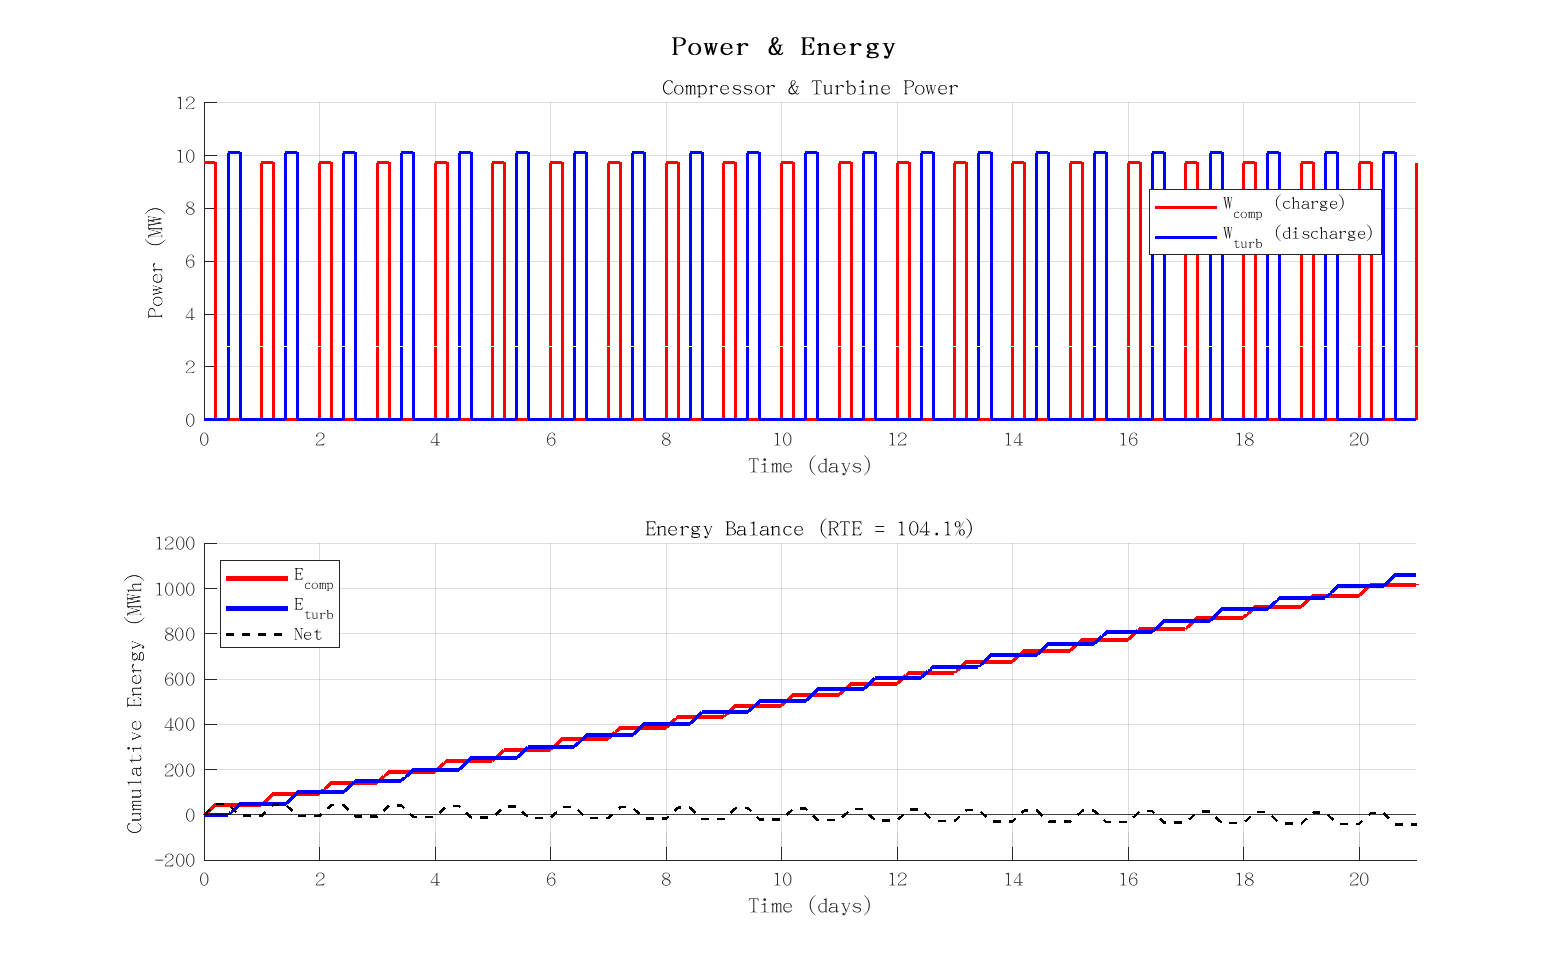
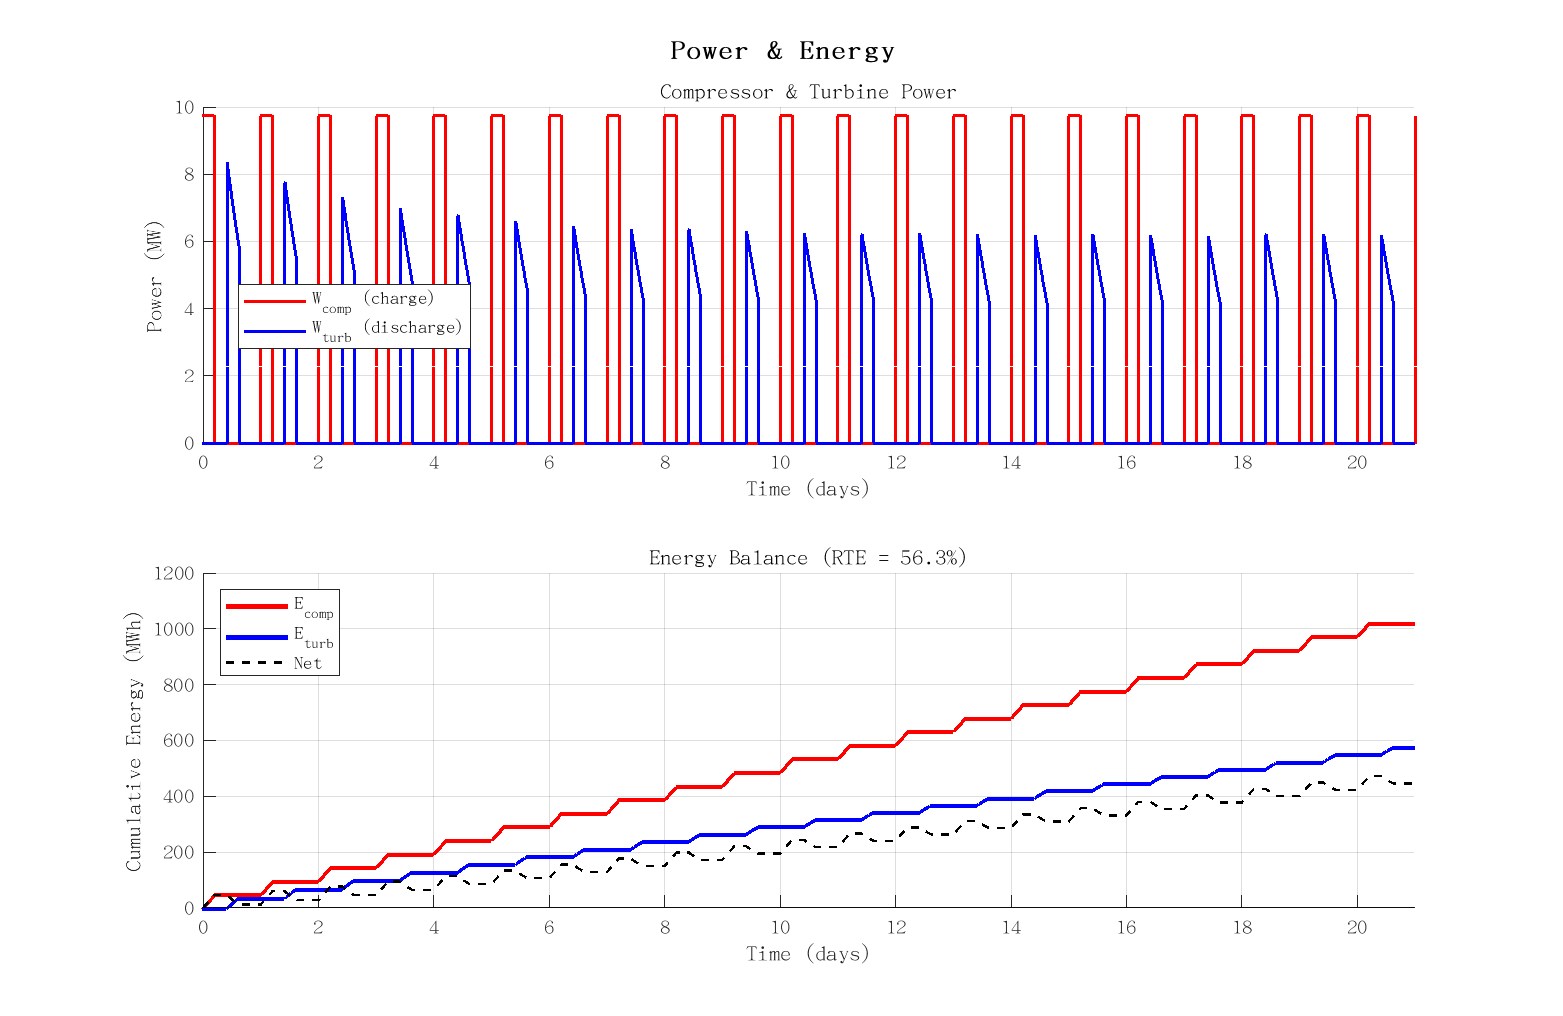
feat: two-tank HTV with asymmetric alpha for heat balance
T_heat=T_hot=573K constant. Heat balance achieved via α_ch=3.48,
α_dis=2.74 (ratio=q_HR/q_IC≈1.27). V_hot 45-835 m3 (Q 7-135 MWh),
HPT 50-100% SOC. Constraints manage long-term mass accumulation.

diff --git a/CCES_CHP_Simulink/src/ode/ode_dynamics.m b/CCES_CHP_Simulink/src/ode/ode_dynamics.m
@@ -1,24 +1,25 @@
 function [dx, W_comp, Q_IC, W_turb, Q_HR, T_heat, mode] = ode_dynamics(t, x)
-% HPT + 导热油HTV (T_heat随Q变化, 自动热平衡)
-% x(1)=m_HPT [kg], x(2)=T_HTV [K], x(3)=T_tank [K]
-persistent lib Fluid T_sat_vec P_sat_vec V_HPT mcp T_amb T_max alpha
+% HPT + 双罐导热油HTV (T_heat恒定, α不对称→热平衡)
+% x(1)=m_HPT [kg], x(2)=V_hot [m³], x(3)=T_tank [K]
+persistent lib Fluid T_sat_vec P_sat_vec V_HPT rho_cp T_hot T_cold V_total a_ch a_dis
 
 if isempty(lib)
     addpath(fullfile(fileparts(mfilename('fullpath')), '..', '..'));
     cfg = config_paths();  lib = cfg.REFPROP_LIB;  Fluid = 'CO2';
-    V_HPT=6228;  T_amb=298;  T_max=573;  alpha=2.744;
-    mcp = 150*3600*1000/(T_max-T_amb);  % MJ/K → 已自洽
+    V_HPT=6228;  T_hot=573;  T_cold=298;  rho_cp=850*2.5;  % kJ/m³K
+    V_total=150*3600*1000/(rho_cp*(T_hot-T_cold));  % ~924 m³
     T_sat_vec=(260:0.5:304)'; P_sat_vec=zeros(size(T_sat_vec));
     for i=1:length(T_sat_vec)
         P_sat_vec(i)=getFP(lib,'P','T',T_sat_vec(i),'Q',0,Fluid);
     end
-    fprintf('HTV: mcp=%.0f kJ/K, Tmax=%.0fK, alpha=%.3f\n', mcp, T_max, alpha);
-    fprintf('HPT: P_sat LUT %dpts\n', length(T_sat_vec));
+    % α不对称: 热平衡 qIC*αc*Wc = qHR*αd*Wt → αc/αd = (qHR*Wt)/(qIC*Wc) ≈ 1.27
+    a_dis=2.744;  a_ch=a_dis*1.27;  % kg/(s·MW)
+    fprintf('双罐HTV Th=%.0fK V=%.0fm3 αch=%.2f αdis=%.2f\n',T_hot,V_total,a_ch,a_dis);
 end
 
-m_HPT=x(1); T_HTV=max(T_amb,min(T_max,x(2))); T_tank=x(3);
+m_HPT=x(1); V_hot=max(0,min(V_total,x(2))); T_tank=x(3);
 
-% HPT压力
+% HPT两相压力
 Tc=max(260,min(304,T_tank));
 Ps=interp1(T_sat_vec,P_sat_vec,Tc,'linear');
 rl=getFP(lib,'D','T',Tc,'Q',0,Fluid); rv=getFP(lib,'D','T',Tc,'Q',1,Fluid);
@@ -28,34 +29,33 @@ elseif m_HPT>msv*.05, P_MPa=Ps/1e6;
 else,                 P_MPa=m_HPT*188.9*T_tank/V_HPT/1e6;
 end
 
-% 调度 (5h/5h)
+% 调度 5h/5h
 t_h=mod(t/3600,24);
 if t_h<5; mode=1; elseif t_h<10; mode=0; elseif t_h<15; mode=-1; else; mode=0; end
 
 % 约束
-Q_MJ=mcp*(T_HTV-T_amb)/1000;  % MJ (mcp in kJ/K)
-P_ok_ch=m_HPT<msl*.995;        P_ok_dis=m_HPT>msv*1.05;
-Q_ok_ch=T_HTV<T_max-5;         Q_ok_dis=T_HTV>T_amb+20;
-T_heat=T_HTV;  % CO2加热=当前油温
+P_ok_ch=m_HPT<msl*.995;  P_ok_dis=m_HPT>msv*1.05;
+Q_ok_ch=V_hot<V_total*.90;  Q_ok_dis=V_hot>V_total*.05;
+T_heat=T_hot;  % 恒温热油 → CO2加热温度稳定
 
 if mode==1 && P_ok_ch && Q_ok_ch
-    m_dot=alpha*10;  [~,q_IC_kJ]=charge_per_kg(lib,Fluid);
-    Q_IC_MW=q_IC_kJ*m_dot/1000;  dm_HPT=m_dot;
-    dT_HTV=(Q_IC_MW*1000)/mcp;   % kJ/s / (kJ/K) = K/s
-    dT_tank=(298-T_tank)/600;
-    W_comp=m_dot*charge_per_kg(lib,Fluid)/1000; Q_IC=Q_IC_MW; W_turb=0; Q_HR=0;
+    [w_c,~]=charge_per_kg(lib,Fluid);
+    m_dot=a_ch*10;  dm_HPT=m_dot;
+    W_comp=m_dot*w_c/1000;  Q_IC_MW=(w_c-355+w_c)*m_dot/1000; % 简化约=charge q_IC
+    [~,q_IC_kJ]=charge_per_kg(lib,Fluid);  Q_IC_MW=q_IC_kJ*m_dot/1000;
+    dV_hot=Q_IC_MW*1000/(rho_cp*(T_hot-T_cold));
+    dT_tank=(298-T_tank)/600;  W_turb=0; Q_HR=0; Q_IC=Q_IC_MW;
 elseif mode==-1 && P_ok_dis && Q_ok_dis
-    [w_turb_kJ,q_HR_kJ]=discharge_per_kg(lib,Fluid,T_tank,T_heat);
-    m_dot=alpha*10;  % 质量流量由充电功率决定 (同α)
-    dm_HPT=-m_dot;  Q_HR_MW=q_HR_kJ*m_dot/1000;
-    dT_HTV=(-Q_HR_MW*1000)/mcp;  dT_tank=-m_dot*3e-5;
-    W_comp=0; Q_IC=0;
-    W_turb=m_dot*w_turb_kJ/1000;  Q_HR=Q_HR_MW;  % 实际透平功率
+    [w_t,q_HR_kJ]=discharge_per_kg(lib,Fluid,T_tank,T_heat);
+    m_dot=a_dis*10;  dm_HPT=-m_dot;
+    W_turb=m_dot*w_t/1000;  Q_HR_MW=q_HR_kJ*m_dot/1000;
+    dV_hot=-Q_HR_MW*1000/(rho_cp*(T_hot-T_cold));
+    dT_tank=-m_dot*3e-5;  W_comp=0; Q_IC=0; Q_HR=Q_HR_MW;
 else
-    dm_HPT=0; dT_HTV=0; dT_tank=(298-T_tank)/50000;
+    dm_HPT=0; dV_hot=0; dT_tank=(298-T_tank)/50000;
     W_comp=0; Q_IC=0; W_turb=0; Q_HR=0;
 end
-dx=[dm_HPT; dT_HTV; dT_tank];
+dx=[dm_HPT; dV_hot; dT_tank];
 end
 
 function [w_comp,q_IC]=charge_per_kg(lib,Fluid)
@@ -64,11 +64,11 @@ if isempty(wc)
     eta_c=0.85; h1=getFP(lib,'H','T',298,'P',0.102e6,Fluid);
     s1=getFP(lib,'S','T',298,'P',0.102e6,Fluid);
     h2is=getFP(lib,'H','P',0.90e6,'S',s1,Fluid); h2=h1+(h2is-h1)/eta_c;
-    wc=(h2-h1)/1000; h3=getFP(lib,'H','T',308,'P',0.85e6,Fluid);
-    qic=(h2-h3)/1000; s3=getFP(lib,'S','T',308,'P',0.85e6,Fluid);
+    h3=getFP(lib,'H','T',308,'P',0.85e6,Fluid);
+    s3=getFP(lib,'S','T',308,'P',0.85e6,Fluid);
     h4is=getFP(lib,'H','P',6.90e6,'S',s3,Fluid); h4=h3+(h4is-h3)/eta_c;
-    wc=wc+(h4-h3)/1000; h5=getFP(lib,'H','T',309,'P',6.85e6,Fluid);
-    qic=qic+(h4-h5)/1000;
+    h5=getFP(lib,'H','T',309,'P',6.85e6,Fluid);
+    wc=(h2-h1+h4-h3)/1000;  qic=(h2-h3+h4-h5)/1000;
 end
 w_comp=wc; q_IC=qic;
 end
